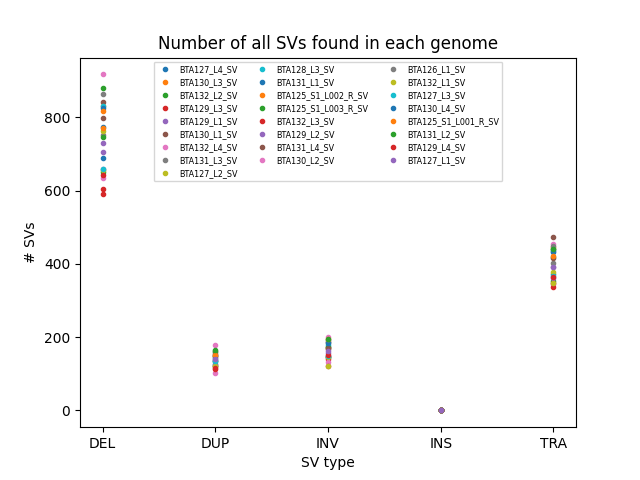
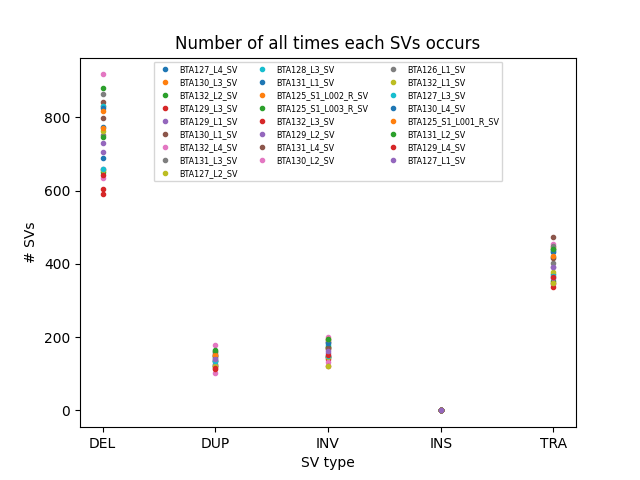
Added counts for the SVs

Changed region(s): [[0.25, 0.0625, 0.7812, 0.125]]

diff --git a/SVs_identification/scripts/vcf_analysis/sum_all_vcf.py b/SVs_identification/scripts/vcf_analysis/sum_all_vcf.py
@@ -20,37 +20,66 @@ for i in range(len(vcf_files)):
 
 
 # # # -------- Plot -------- # # #
-# Plot the number of each type of structural variation
-plt.figure(1)
-# Figure 1 is the raw identified SVs.
+# Plot the number of all variants in each file
 genome_names = []
+num_var_raw = []
+plt.figure(1)
+for i in range(len(vcf_raw)):
+    sample = vcf_raw[i]
+    genome_name = functions.get_file_name(vcf_files[i])
+    genome_names.append(genome_name)
+    num_var_raw.append(len(sample))
+
+plt.plot(genome_names, num_var_raw, '.')
+plt.title('Number of SVs found in each genome')
+plt.xticks(fontsize=4, rotation=45, ha='right')
+plt.ylabel('# SVs')
+plt.savefig('count_per_genome.png')
+plt.show()
+
+# Plot the number of filtered variants in each file
+num_var_filt = []
+plt.figure(2)
+for i in range(len(vcf_filtered)):
+    sample = vcf_filtered[i]
+    num_var_filt.append(len(sample))
+
+plt.plot(genome_names, num_var_filt, '.')
+plt.title('Number of filtered SVs found in each genome')
+plt.xticks(fontsize=4, rotation=45, ha='right')
+plt.ylabel('# SVs')
+plt.savefig('filt_count_per_genome.png')
+plt.show()
+
+# Plot the number of each type of structural variation
+plt.figure(3)
+# Figure 3 is the raw identified SVs.
+
 for i in range(len(vcf_raw)):
     sample = vcf_raw[i]
     counts = functions.count_sv_type(sample)
-    genome_name = functions.get_file_name(vcf_files[i])
-    genome_names.append(genome_name)
-    functions.plot_stats(counts, genome_name)
+    functions.plot_stats(counts, genome_names[i])
 
 plt.legend(loc='upper center', fontsize='xx-small', ncol=3)
-plt.title('Number of all SVs found in each genome')
+plt.title('Number of all times each SVs occurs')
 plt.xlabel('SV type')
 plt.ylabel('# SVs')
 plt.savefig("nonfiltered_svs.png")
 
-# Figure 2 plots the filtered identified SVs
-plt.figure(2)
+# Figure 4 plots the filtered identified SVs
+plt.figure(4)
 for i in range(len(vcf_filtered)):
     sample = vcf_filtered[i]
     counts = functions.count_sv_type(sample)
     functions.plot_stats(counts, genome_names[i])
 
 plt.legend(loc='upper center', fontsize='xx-small', ncol=3)
-plt.title('Number of filtered SVs found in each genome')
+plt.title('Number of all times each filtered SVs occurs')
 plt.xlabel('SV type')
 plt.ylabel('# SVs')
 plt.savefig("filtered_svs.png")
 
-plt.figure(3)
+plt.figure(5)
 
 count_raw, genome_pos_raw = functions.count_svs(vcf_raw, vcf_files)
 sorted_count_raw = sorted(count_raw.items())
@@ -61,7 +90,7 @@ plt.ylabel('Number of times each SV is found')
 plt.title('The number of times each SV has been found in the raw VCF files')
 plt.savefig("counted_nonfiltered_svs.png")
 
-plt.figure(4)
+plt.figure(6)
 count_filt, genome_pos_filt = functions.count_svs(vcf_filtered, vcf_files)
 sorted_count_filt = sorted(count_filt.items())
 chr_pos_filt, num_filt = zip(*sorted_count_filt)
